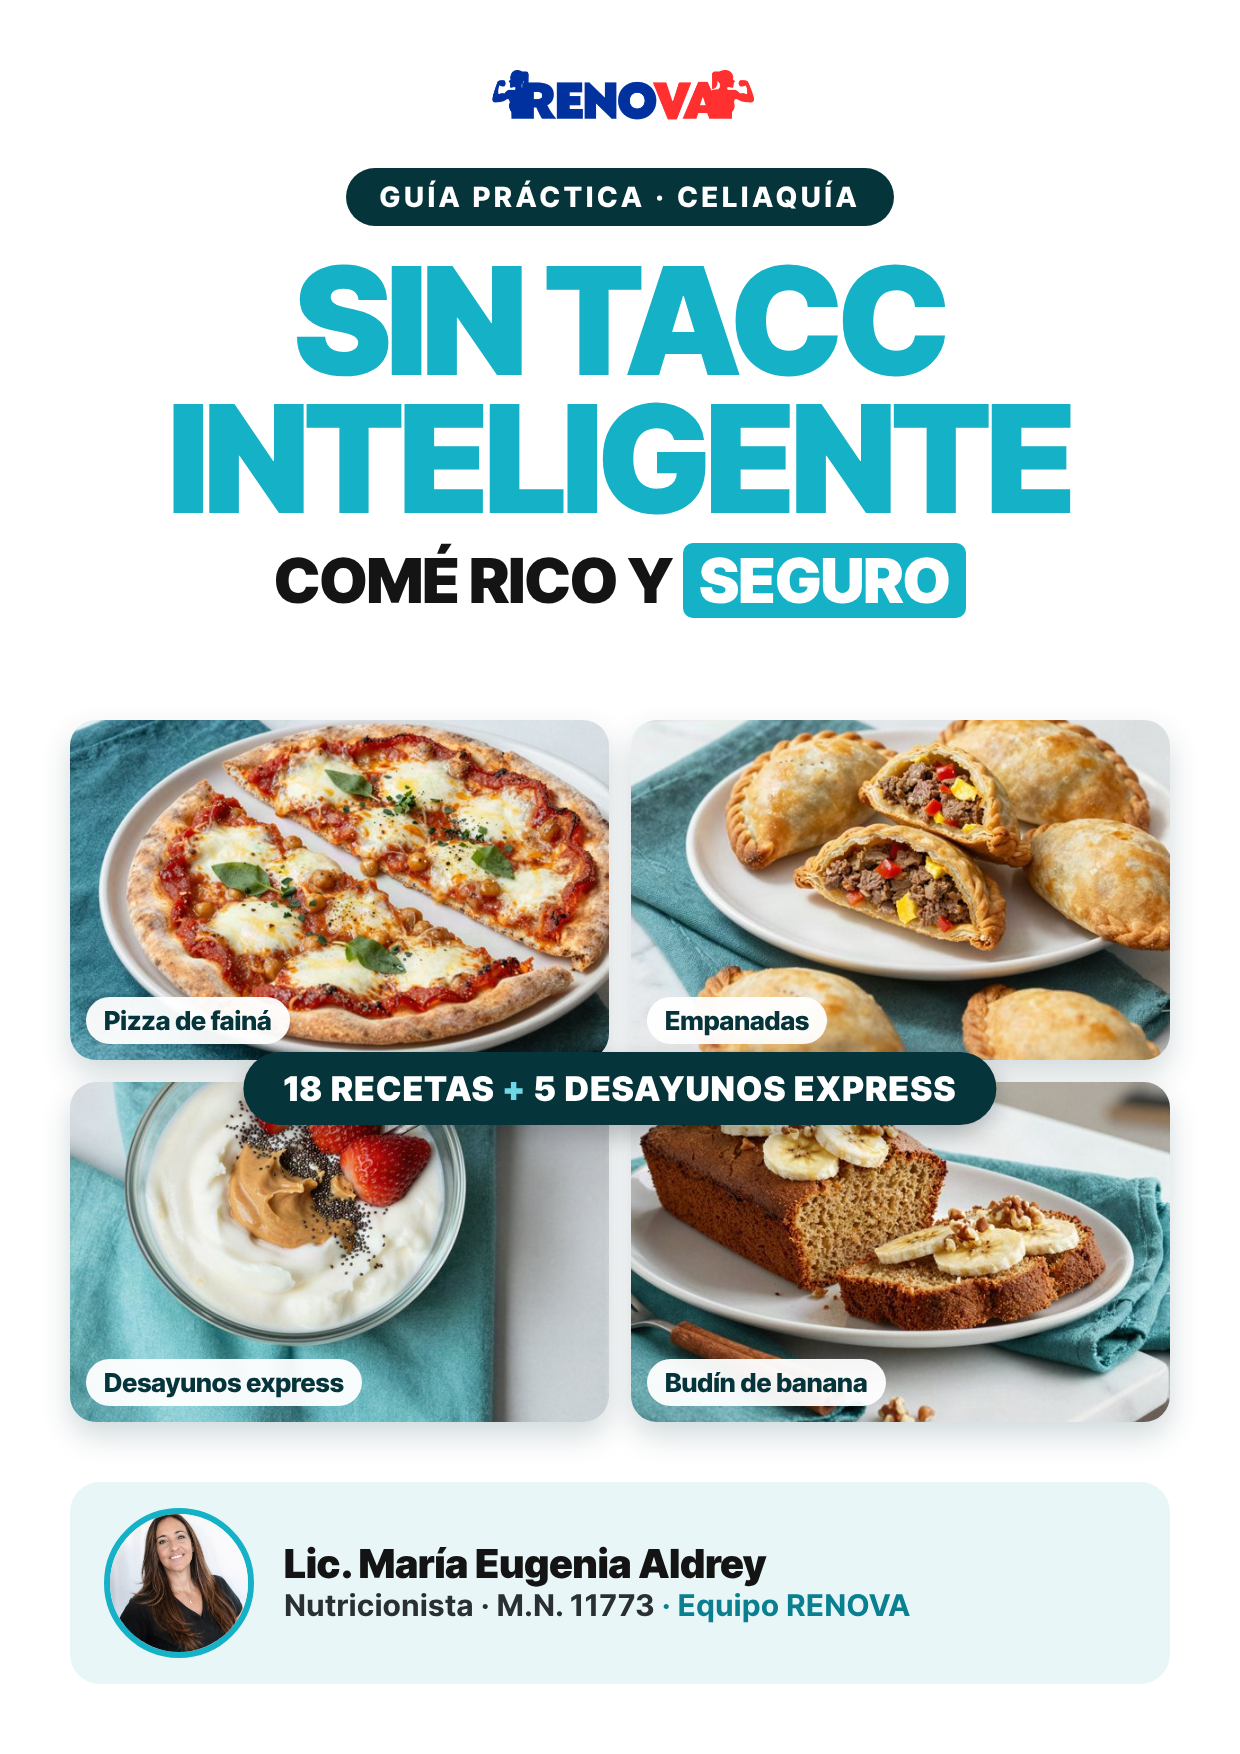
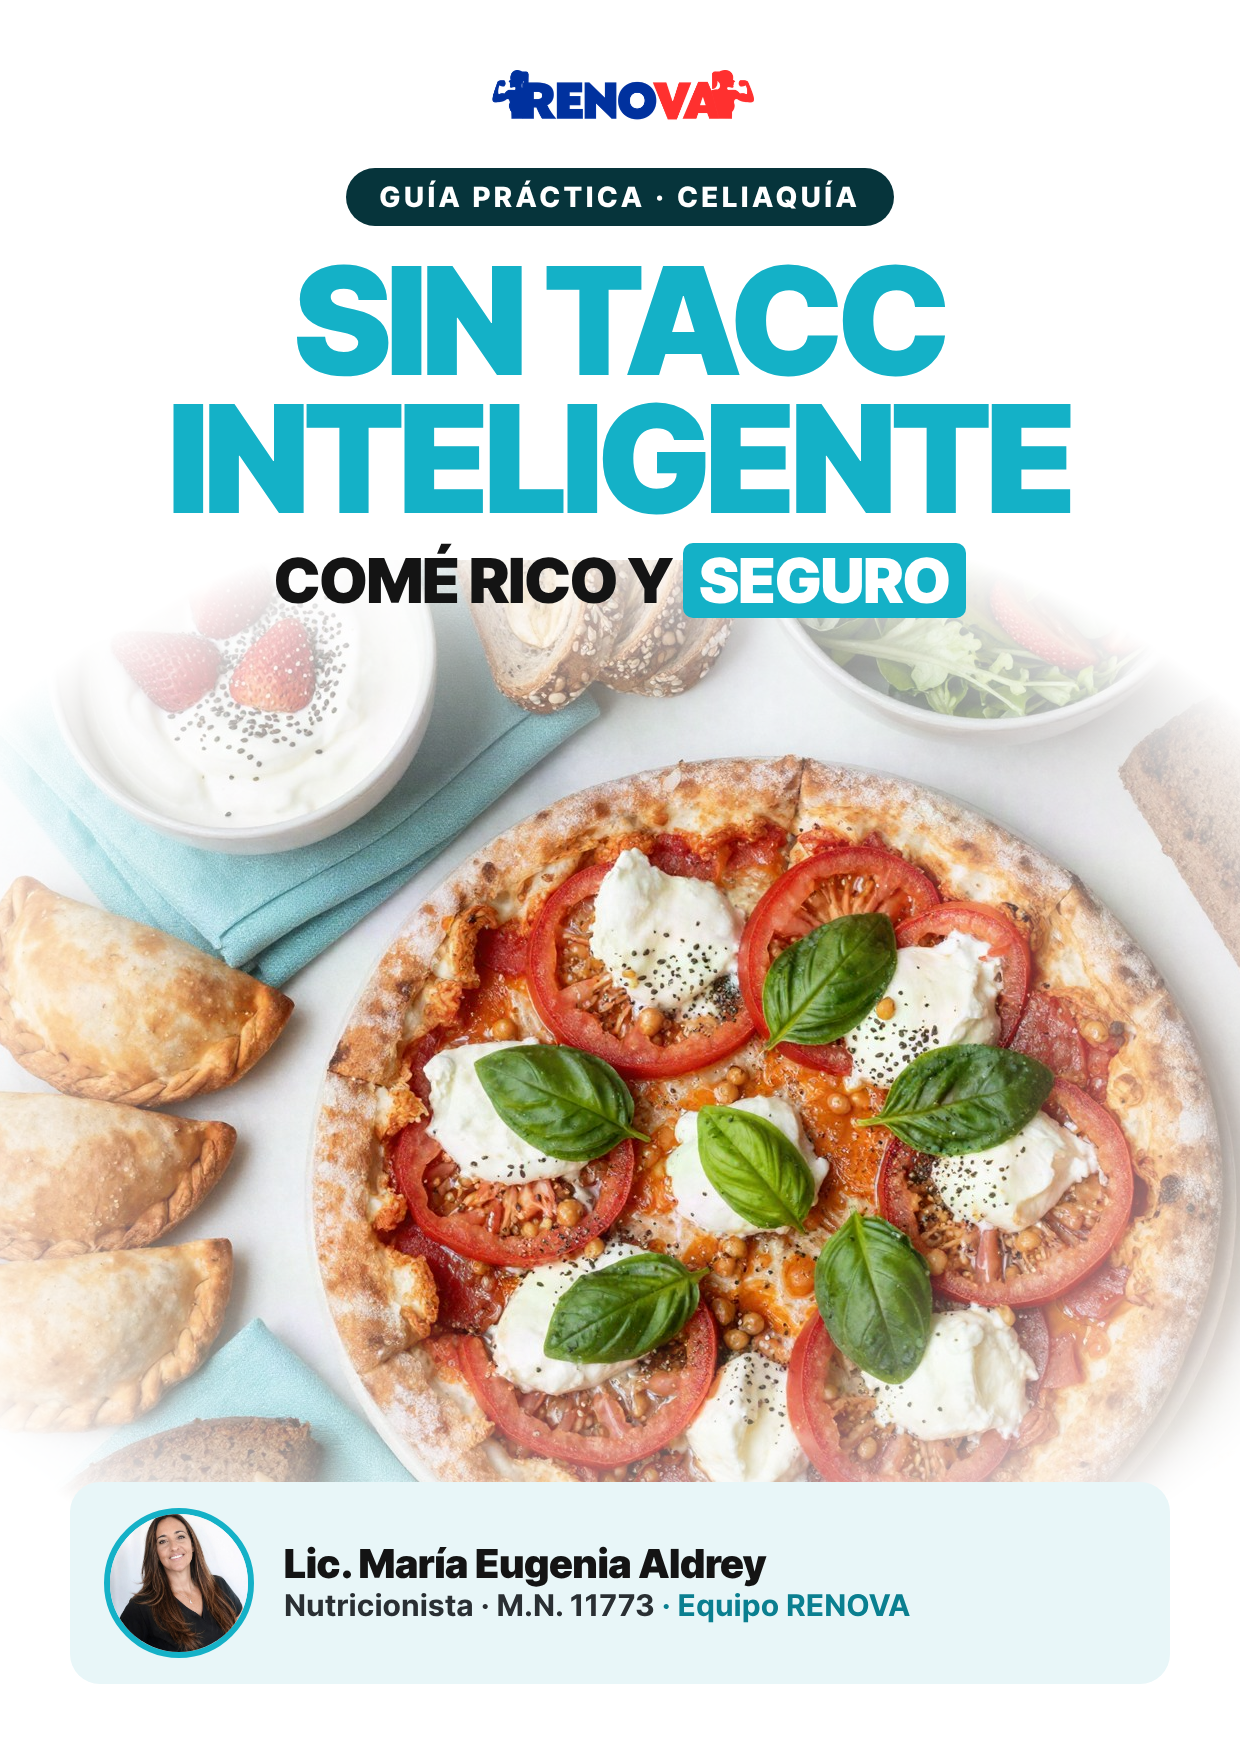
Sin TACC: tapa de la tienda con una sola foto de comida difuminada, sin títulos ni cantidad de recetas
Claude-Session: https://claude.ai/code/session_016d9STMTFsB819XAn27rxwK

diff --git a/fuentes/landing/mockups/tapa_sintacc_comida.html b/fuentes/landing/mockups/tapa_sintacc_comida.html
@@ -9,12 +9,9 @@ body{width:1240px;height:1754px;overflow:hidden;background:#fff;font-family:IT,s
 h1{font:900 150px/0.92 IT;letter-spacing:-.03em;color:#14B1C7;margin-top:26px;text-transform:uppercase}
 h2{font:900 62px/1 IT;margin-top:22px;text-transform:uppercase;letter-spacing:-.01em}
 h2 span{background:#14B1C7;color:#fff;padding:0 16px;border-radius:10px}
-.grid{position:absolute;left:70px;right:70px;top:720px;display:grid;grid-template-columns:1fr 1fr;gap:22px}
-.grid div{position:relative;height:340px;border-radius:26px;overflow:hidden;box-shadow:0 14px 30px rgba(6,52,59,.18)}
-.grid img{width:100%;height:100%;object-fit:cover}
-.grid b{position:absolute;left:16px;bottom:16px;background:rgba(255,255,255,.95);font:800 26px IT;padding:8px 18px;border-radius:999px;color:#06343B}
-.chip{position:absolute;left:50%;top:1052px;transform:translateX(-50%);background:#06343B;color:#fff;font:900 34px IT;letter-spacing:.04em;padding:16px 40px;border-radius:999px;white-space:nowrap;box-shadow:0 10px 24px rgba(0,0,0,.25);text-transform:uppercase}
-.chip i{font-style:normal;color:#6FD8E6}
+.hero{position:absolute;left:-30px;right:-30px;top:560px;height:1000px;z-index:0}
+.hero img{width:100%;height:100%;object-fit:cover;object-position:45% 50%;-webkit-mask-image:radial-gradient(ellipse 62% 58% at 50% 52%,#000 45%,transparent 100%);mask-image:radial-gradient(ellipse 62% 58% at 50% 52%,#000 45%,transparent 100%)}
+.top,.aut{z-index:2}.top{position:relative}
 .aut{position:absolute;left:70px;right:70px;bottom:70px;display:flex;align-items:center;gap:30px;background:#E8F6F8;border-radius:30px;padding:26px 34px}
 .aut img{width:150px;height:150px;border-radius:50%;object-fit:cover;object-position:50% 20%;border:6px solid #14B1C7;flex:none}
 .aut p{font:700 30px/1.3 I;color:#2A2F33}
@@ -23,11 +20,5 @@ h2 span{background:#14B1C7;color:#fff;padding:0 16px;border-radius:10px}
 </style>
 <div class="top"><img src="../img/logo.png"><br><span class="tag">GUÍA PRÁCTICA · CELIAQUÍA</span>
 <h1>Sin TACC<br>Inteligente</h1><h2>Comé rico y <span>seguro</span></h2></div>
-<div class="grid">
- <div><img src="../../ebook/img/food/st_pizza.jpg"><b>Pizza de fainá</b></div>
- <div><img src="../../ebook/img/food/st_empanadas.jpg"><b>Empanadas</b></div>
- <div><img src="../../ebook/img/food/st_des1.jpg"><b>Desayunos express</b></div>
- <div><img src="../../ebook/img/food/st_budin.jpg"><b>Budín de banana</b></div>
-</div>
-<div class="chip">18 recetas <i>+</i> 5 desayunos express</div>
+<div class="hero"><img src="pack/sintacc_mesa.jpg"></div>
 <div class="aut"><img src="../img/equipo_eugenia.jpg"><p><b>Lic. María Eugenia Aldrey</b>Nutricionista · M.N. 11773 <span>· Equipo RENOVA</span></p></div>

diff --git a/fuentes/landing/mockups/tienda_sintacc.py b/fuentes/landing/mockups/tienda_sintacc.py
@@ -20,12 +20,9 @@ body{{width:1240px;height:1754px;overflow:hidden;background:#fff;font-family:IT,
 h1{{font:900 150px/0.92 IT;letter-spacing:-.03em;color:#14B1C7;margin-top:26px;text-transform:uppercase}}
 h2{{font:900 62px/1 IT;margin-top:22px;text-transform:uppercase;letter-spacing:-.01em}}
 h2 span{{background:#14B1C7;color:#fff;padding:0 16px;border-radius:10px}}
-.grid{{position:absolute;left:70px;right:70px;top:720px;display:grid;grid-template-columns:1fr 1fr;gap:22px}}
-.grid div{{position:relative;height:340px;border-radius:26px;overflow:hidden;box-shadow:0 14px 30px rgba(6,52,59,.18)}}
-.grid img{{width:100%;height:100%;object-fit:cover}}
-.grid b{{position:absolute;left:16px;bottom:16px;background:rgba(255,255,255,.95);font:800 26px IT;padding:8px 18px;border-radius:999px;color:#06343B}}
-.chip{{position:absolute;left:50%;top:1052px;transform:translateX(-50%);background:#06343B;color:#fff;font:900 34px IT;letter-spacing:.04em;padding:16px 40px;border-radius:999px;white-space:nowrap;box-shadow:0 10px 24px rgba(0,0,0,.25);text-transform:uppercase}}
-.chip i{{font-style:normal;color:#6FD8E6}}
+.hero{{position:absolute;left:-30px;right:-30px;top:560px;height:1000px;z-index:0}}
+.hero img{{width:100%;height:100%;object-fit:cover;object-position:45% 50%;-webkit-mask-image:radial-gradient(ellipse 62% 58% at 50% 52%,#000 45%,transparent 100%);mask-image:radial-gradient(ellipse 62% 58% at 50% 52%,#000 45%,transparent 100%)}}
+.top,.aut{{z-index:2}}.top{{position:relative}}
 .aut{{position:absolute;left:70px;right:70px;bottom:70px;display:flex;align-items:center;gap:30px;background:#E8F6F8;border-radius:30px;padding:26px 34px}}
 .aut img{{width:150px;height:150px;border-radius:50%;object-fit:cover;object-position:50% 20%;border:6px solid #14B1C7;flex:none}}
 .aut p{{font:700 30px/1.3 I;color:#2A2F33}}
@@ -34,13 +31,7 @@ h2 span{{background:#14B1C7;color:#fff;padding:0 16px;border-radius:10px}}
 </style>
 <div class="top"><img src="../img/logo.png"><br><span class="tag">GUÍA PRÁCTICA · CELIAQUÍA</span>
 <h1>Sin TACC<br>Inteligente</h1><h2>Comé rico y <span>seguro</span></h2></div>
-<div class="grid">
- <div><img src="{FOOD}st_pizza.jpg"><b>Pizza de fainá</b></div>
- <div><img src="{FOOD}st_empanadas.jpg"><b>Empanadas</b></div>
- <div><img src="{FOOD}st_des1.jpg"><b>Desayunos express</b></div>
- <div><img src="{FOOD}st_budin.jpg"><b>Budín de banana</b></div>
-</div>
-<div class="chip">18 recetas <i>+</i> 5 desayunos express</div>
+<div class="hero"><img src="pack/sintacc_mesa.jpg"></div>
 <div class="aut"><img src="../img/equipo_eugenia.jpg"><p><b>Lic. María Eugenia Aldrey</b>Nutricionista · M.N. 11773 <span>· Equipo RENOVA</span></p></div>
 """
 Path("tapa_sintacc_comida.html").write_text(TAPA, encoding="utf-8")
